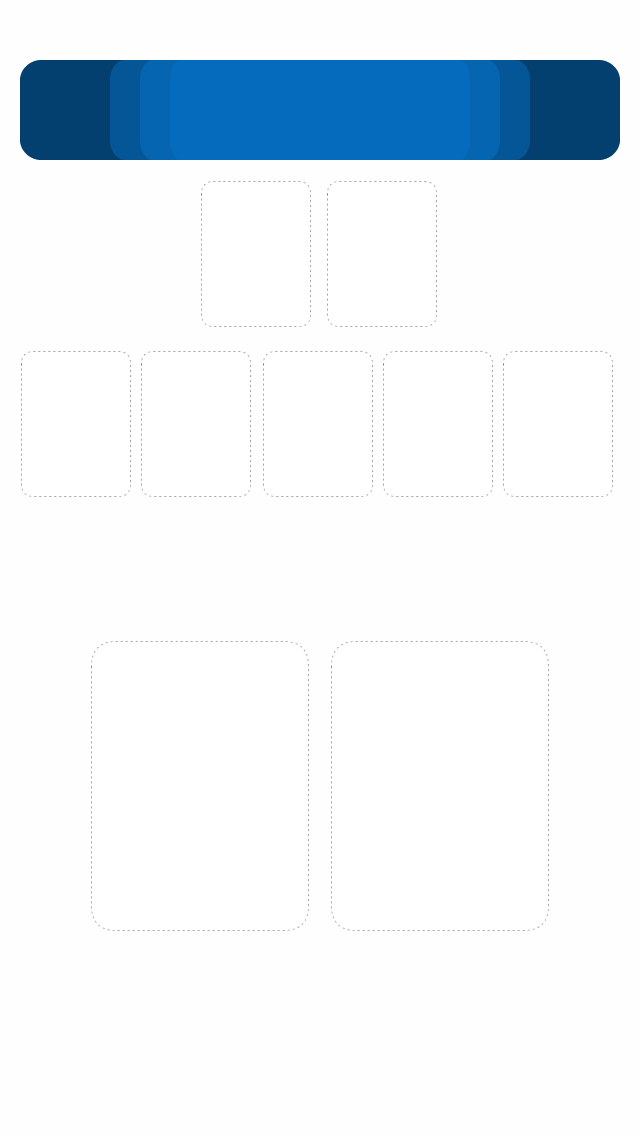
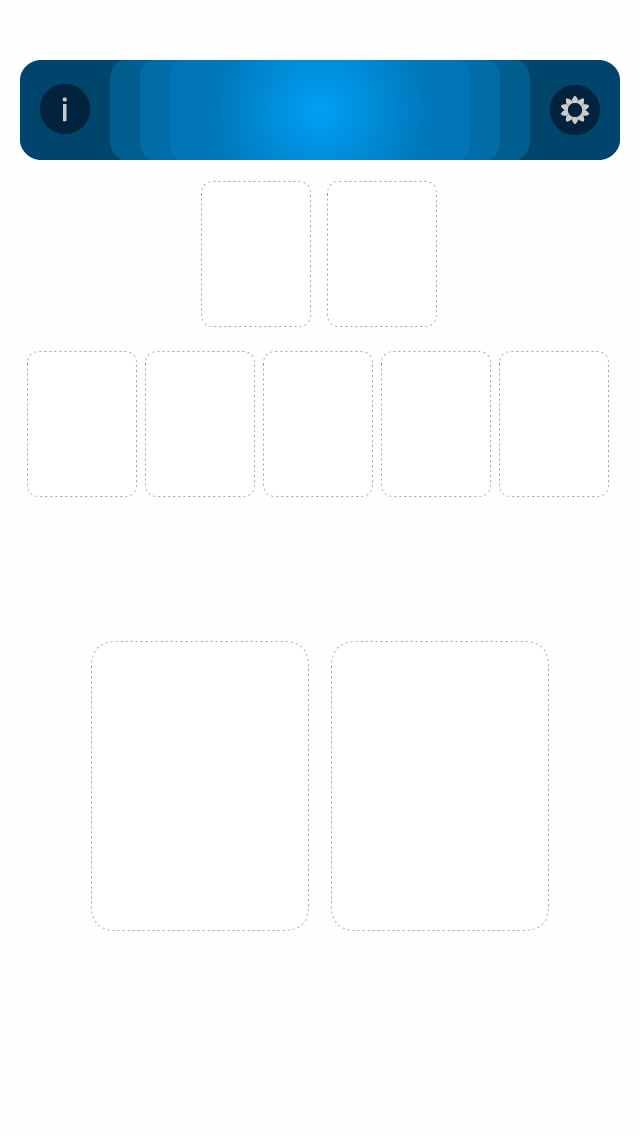
card movement

Changed region(s): [[0.375, 0.0308, 0.625, 0.154], [0.8438, 0.0616, 0.9375, 0.1232], [0.0625, 0.0616, 0.1562, 0.1232]]

diff --git a/app/helpers/game_helper.rb b/app/helpers/game_helper.rb
@@ -1,86 +1,82 @@
 module GameHelper
 
-  def deal_cards
+  def discard_cards(cards)
+    cards.each do |card|
+      start_pos = rmq(card).get.frame.origin.y
+      start_height = rmq(card).get.frame.size.height
+      opts = {
+        duration: 0.2,
+        animations: ->(c) {
+          c.style do |st|
+            st.top = start_pos - start_height
+            st.rotation = 180
+            st.opacity = 0.2
+          end
+        },
+        completion: ->(did_finish, q){
+          if did_finish
+            rmq(:card_1).style {|st| st.background_image = rmq.image.resource("#{@quick_fire.player(1).card_1}_big") }
+            rmq(:card_2).style {|st| st.background_image = rmq.image.resource("#{@quick_fire.player(1).card_2}_big") }
+            rmq(card).animate({
+              duration: 0.2,
+              animations: ->(c) {
+                c.style do |st|
+                  st.opacity = 1.0
+                  st.rotation = 0
+                  st.top = start_pos
+                end
+              },
+              completion: ->(finished, x) {
+                if finished
+                  redraw_scene
+                end
+              }
+            })
+          end
+        }
+      }
+      rmq(card).animate(opts)
+    end
+  end
+
+  def deal_cards(*cards)
     cards.each do |card|
       hide_card(card)
     end
-    deal_card_1
+    rmq(:play).off
+    deal_card(0, cards)
+  end
+
+  def deal_card(index, cards)
+    card = cards[index]
+    if card.nil?
+      play_button
+      return
+    end
+    final_pos = rmq(card).get.frame.origin.y
+    rmq(card).style {|st| st.top = -100; st.rotation = 45 }
+    rmq(card).animate({
+      duration: 0.2,
+      animations: ->(c) {
+        c.style do |st|
+          st.opacity = 1.0
+          st.rotation = 0
+          st.top = final_pos
+        end
+      },
+      completion: ->(did_finish, q){
+        if did_finish
+         deal_card(index + 1, cards)
+        end
+      }
+    })
   end
 
   def hide_card(card)
     rmq(card).hide.style do |st|
-      st.opacity = 0.1
+      st.opacity = 0.0
       st.hidden = false
-      st.top = -200
-      st.rotation = 45
     end
-  end
-
-  def deal_card_1
-    rmq(:card_1).animate({
-      duration: 0.2,
-      animations: ->(c) {
-        c.style do |st|
-          st.opacity = 1.0
-          st.rotation = 0
-          st.top = 320
-        end
-      },
-      completion: ->(did_finish, q){
-        if did_finish
-          deal_card_2
-        end
-      }
-    })
-  end
-
-  def deal_card_2
-    rmq(:comp_card_1).animate({
-      duration: 0.1,
-      animations: ->(c) {
-        c.style do |st|
-          st.opacity = 1.0
-          st.rotation = 0
-          st.top = 90
-        end
-      },
-      completion: ->(did_finish, q){
-        if did_finish
-          deal_card_3
-        end
-      }
-    })
-  end
-
-  def deal_card_3
-    rmq(:card_2).animate({
-      duration: 0.2,
-      animations: ->(c) {
-        c.style do |st|
-          st.opacity = 1.0
-          st.rotation = 0
-          st.top = 320
-        end
-      },
-      completion: ->(did_finish, q){
-        if did_finish
-          deal_card_4
-        end
-      }
-    })
-  end
-
-  def deal_card_4
-    rmq(:comp_card_2).animate({
-      duration: 0.1,
-      animations: ->(c) {
-        c.style do |st|
-          st.opacity = 1.0
-          st.rotation = 0
-          st.top = 90
-        end
-      }
-    })
   end
 
   def drop_cards(*cards)

diff --git a/app/concerns/event_listeners.rb b/app/concerns/event_listeners.rb
@@ -39,33 +39,33 @@ module EventListeners
   end
 
   def card_1
-    rmq(:card_1).on(:touch) do |sender|
+    rmq(:card_1).on(:swipe_up) do |sender|
       if @quick_fire.player(1).status != :discarded
         if @quick_fire.game_status == :deal || @quick_fire.game_status == :flop || @quick_fire.game_status == :turn
+          cards = [:card_1]
           @quick_fire.player(1).discard(:card_1)
-          cards = :card_1
+          discard_cards(cards)
         elsif @quick_fire.game_status == :river
-          @quick_fire.player(1).burn
           cards = [:card_1, :card_2]
+          @quick_fire.player(1).burn
+          discard_cards(cards)
         end
-        redraw_scene
-        reveal_cards(cards)
       end
     end
   end
 
   def card_2
-    rmq(:card_2).on(:touch) do |sender|
+    rmq(:card_2).on(:swipe_up) do |sender|
       if @quick_fire.player(1).status != :discarded
         if @quick_fire.game_status == :deal || @quick_fire.game_status == :flop || @quick_fire.game_status == :turn
+          cards = [:card_2]
           @quick_fire.player(1).discard(:card_2)
-          cards = :card_2
+          discard_cards(cards)
         elsif @quick_fire.game_status == :river
-          @quick_fire.player(1).burn
           cards = [:card_1, :card_2]
+          @quick_fire.player(1).burn
+          discard_cards(cards)
         end
-        redraw_scene
-        reveal_cards(cards)
       end
     end
   end

diff --git a/app/stylesheets/game_stylesheet.rb b/app/stylesheets/game_stylesheet.rb
@@ -66,14 +66,14 @@ class GameStylesheet < ApplicationStylesheet
     st.width = 57
     st.height = 75
     st.top = 175
-    st.left = 10
+    st.left = 13
   end
 
   def table_card_2(st)
     st.width = 57
     st.height = 75
     st.top = 175
-    st.left = 70
+    st.left = 72
   end
 
   def table_card_3(st)
@@ -87,14 +87,14 @@ class GameStylesheet < ApplicationStylesheet
     st.width = 57
     st.height = 75
     st.top = 175
-    st.left = 191
+    st.left = 190
   end
 
   def table_card_5(st)
     st.width = 57
     st.height = 75
     st.top = 175
-    st.left = 251
+    st.left = 249
   end
 
   def fold(st)
@@ -142,6 +142,16 @@ class GameStylesheet < ApplicationStylesheet
     st.color = color.from_hex("0565b0")
     st.font = rmq.font.small
     st.text_alignment = :center
+  end
+
+  def overlay(st)
+    st.top = 30
+    st.left = 10
+    st.height = 487
+    st.width = 300
+    #st.background_color = color.from_hex("003551")
+    st.background_color = color.from_rgba(0,53,81,0.7)
+    st.layer.cornerRadius = 10
   end
 
 end

diff --git a/app/concerns/game_play.rb b/app/concerns/game_play.rb
@@ -2,22 +2,22 @@ module GamePlay
 
   def deal
     @quick_fire.deal
-    deal_cards(:card_1, :card_2, :comp_card_1, :comp_card_2)
+    deal_cards(:card_1, :comp_card_1, :card_2, :comp_card_2)
   end
 
   def flop
     @quick_fire.flop
-    reveal_cards(:table_card_1, :table_card_2, :table_card_3)
+    deal_cards(:table_card_1, :table_card_2, :table_card_3)
   end
 
   def turn
     @quick_fire.turn
-    reveal_cards(:table_card_4)
+    deal_cards(:table_card_4)
   end
 
   def river
     @quick_fire.river
-    reveal_cards(:table_card_5)
+    deal_cards(:table_card_5)
   end
 
   def finished

diff --git a/app/controllers/game_controller.rb b/app/controllers/game_controller.rb
@@ -46,6 +46,7 @@ class GameController < UIViewController
     rmq.append(UIButton, :card_1)
     rmq.append(UIButton, :card_2)
     rmq(:score).attr(text: formatted_score)
+
   end
 
   def set_up_observations
@@ -79,6 +80,12 @@ class GameController < UIViewController
       rmq(:comp_card_2).style {|st| st.background_image = rmq.image.resource("card_back") }
     end
     save_game
+  end
+
+  def show_overlay
+    rmq.wrap(rmq.app.window).tap do |ol|
+      ol.append(UIView, :overlay).animations.fade_in
+    end
   end
 
   def rank_text
